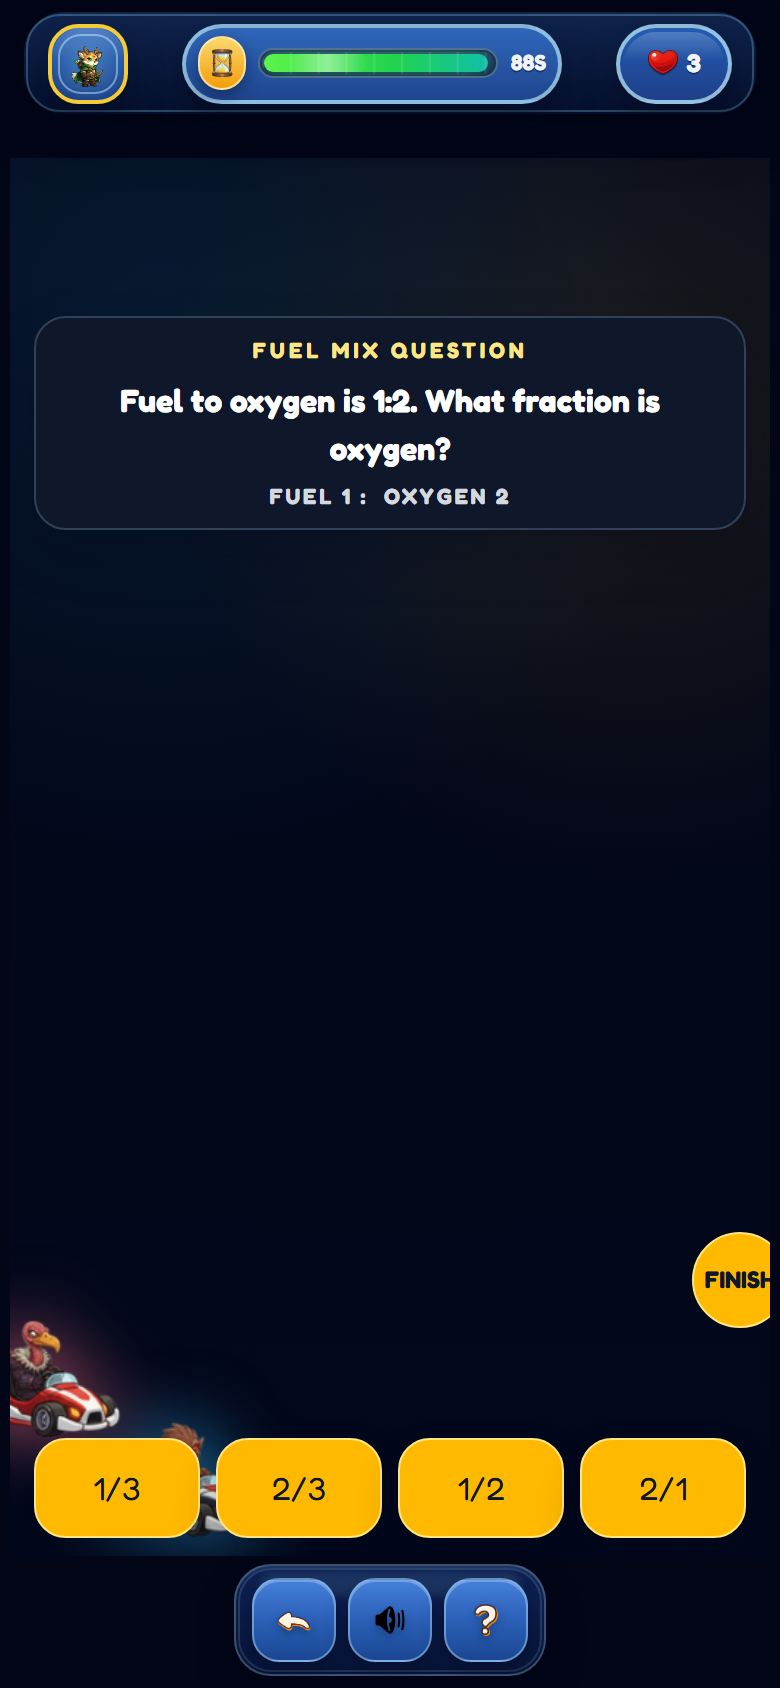
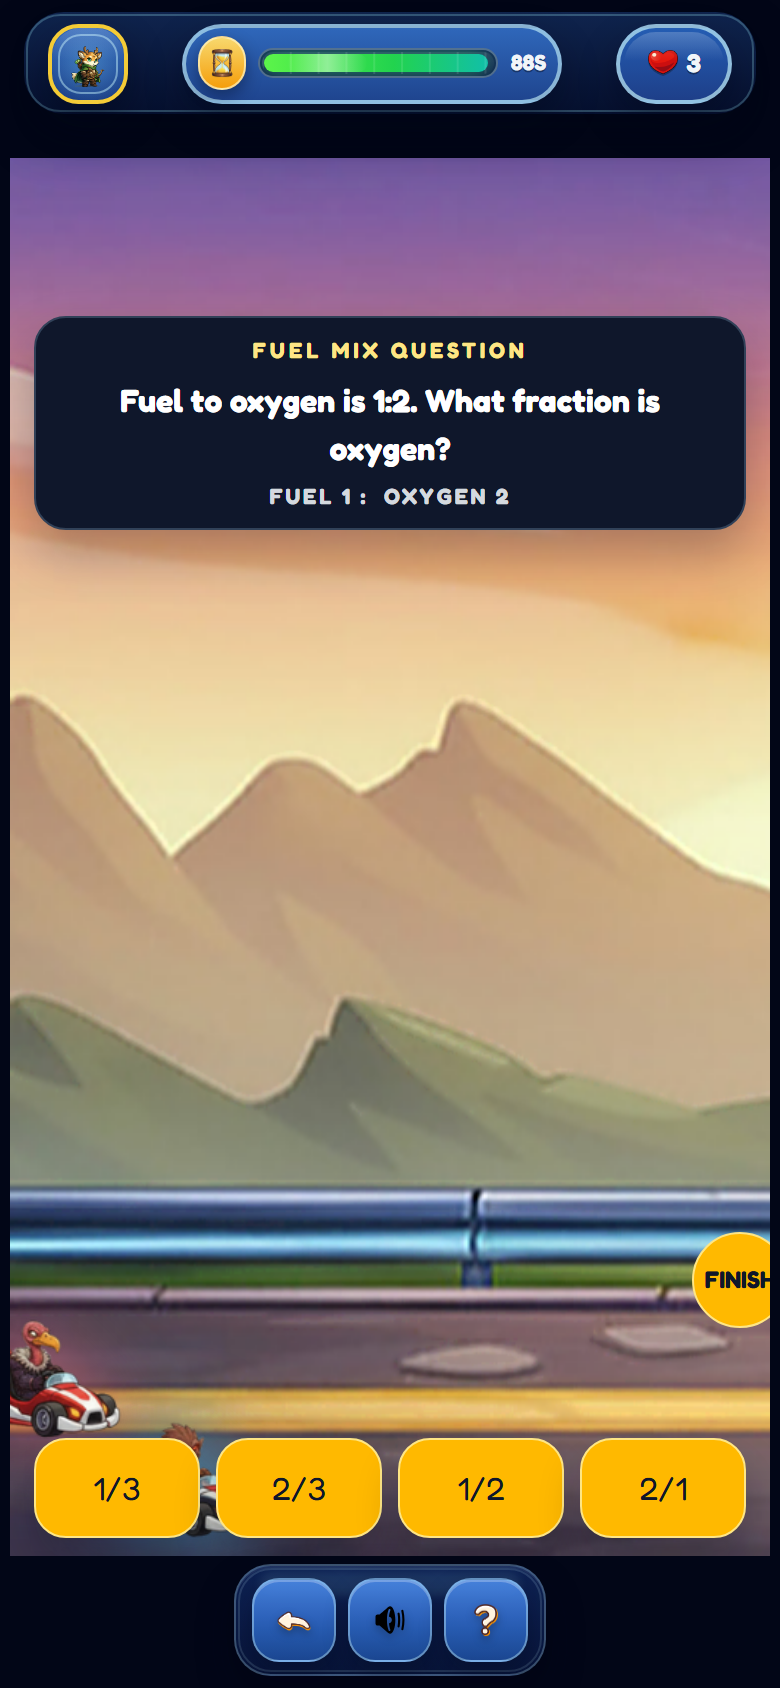
map

diff --git a/src/games/RatioFractionsGame.tsx b/src/games/RatioFractionsGame.tsx
@@ -346,10 +346,11 @@ const RatioFractionsGame: React.FC<RatioFractionsGameProps> = ({
         <div
           className="pointer-events-none absolute inset-0"
           style={{
-            backgroundImage: `linear-gradient(180deg,rgba(74,56,122,0.28)_0%,rgba(238,206,160,0.18)_62%,rgba(72,56,106,0.32)_100%), url(${ratioBackdrop})`,
-            backgroundRepeat: 'no-repeat, no-repeat',
-            backgroundSize: `100% 100%, ${BACKDROP_WIDTH}px ${BACKDROP_HEIGHT}px`,
-            backgroundPosition: `center top, ${-backgroundOffset}px bottom`,
+            backgroundColor: '#0b0f1c',
+            backgroundImage: `url(${ratioBackdrop})`,
+            backgroundRepeat: 'no-repeat',
+            backgroundSize: `${BACKDROP_WIDTH}px ${BACKDROP_HEIGHT}px`,
+            backgroundPosition: `${-backgroundOffset}px bottom`,
           }}
         />
 
